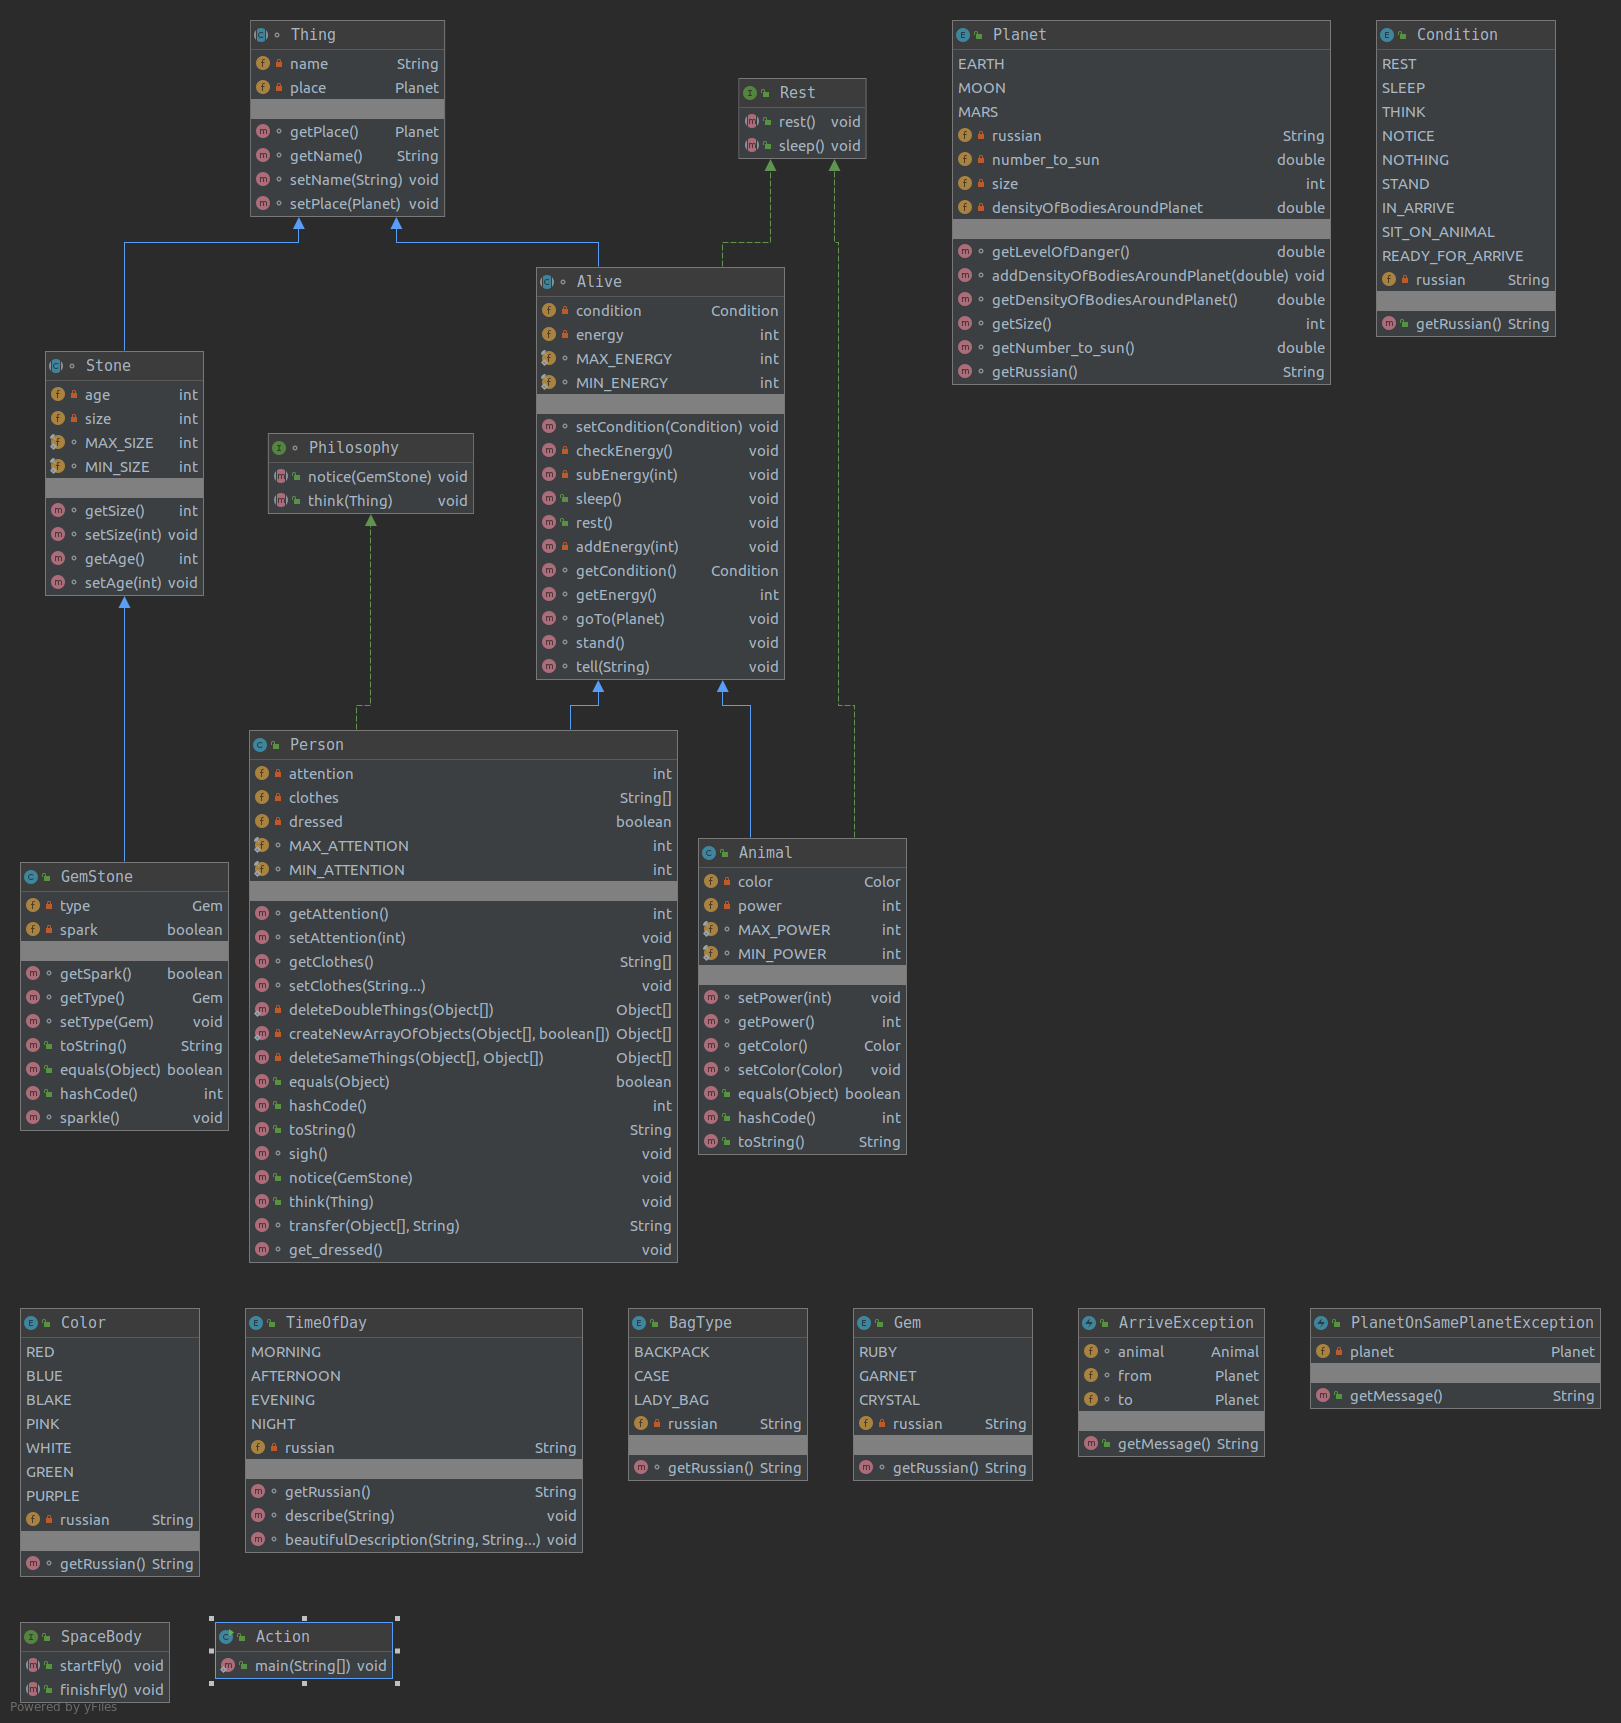
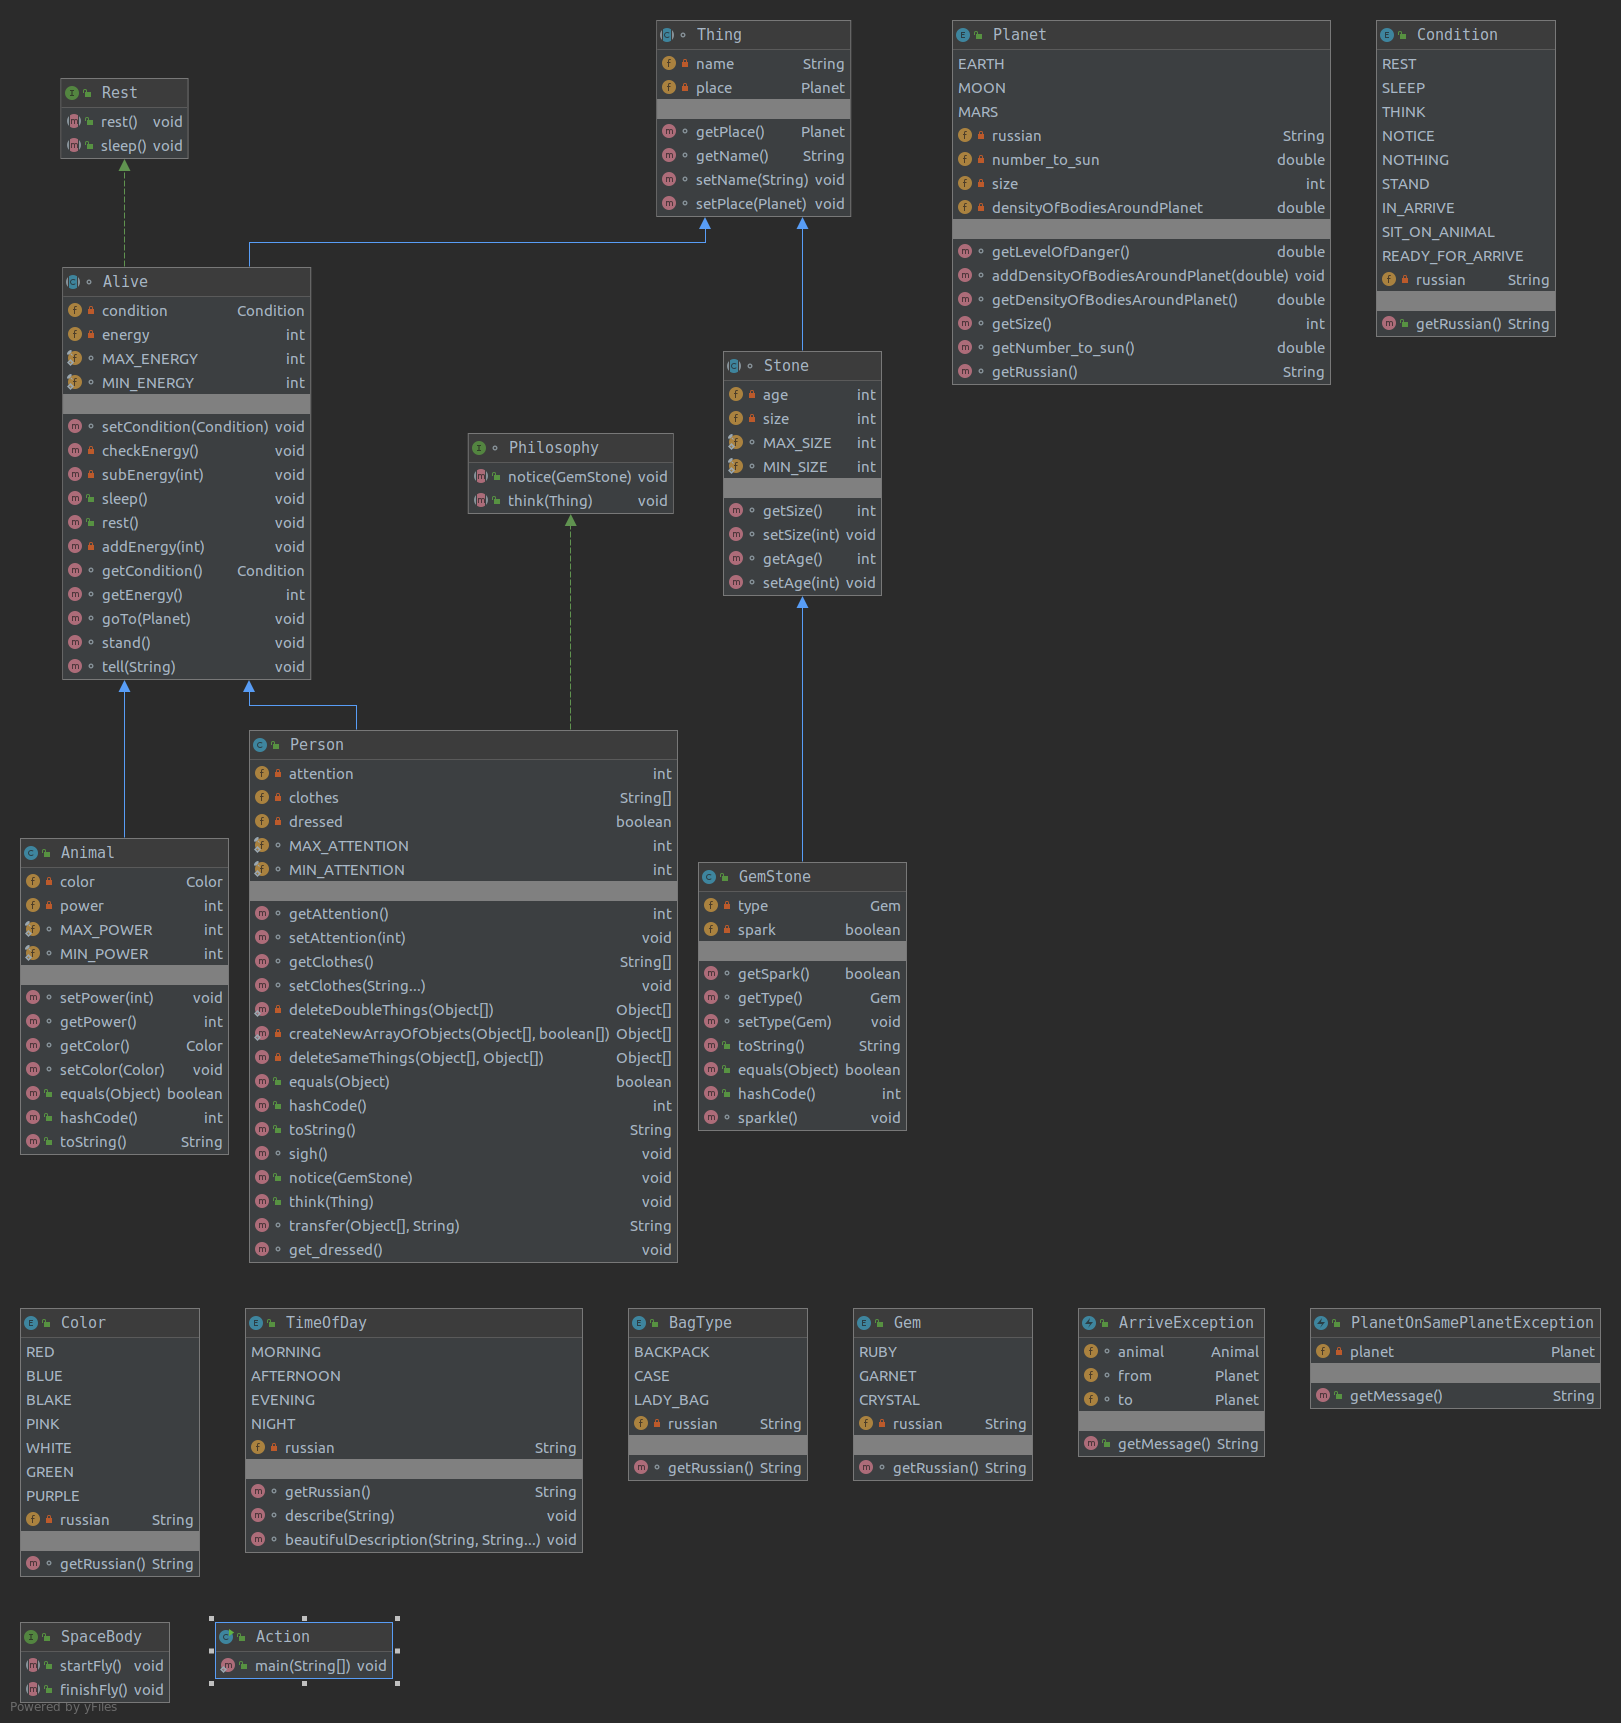
Create normal Diagramme

diff --git a/src/Animal.java b/src/Animal.java
@@ -1,6 +1,6 @@
 import java.util.Objects;
 
-public class Animal extends Alive implements Rest {
+public class Animal extends Alive{
     private Color color;
     private int power;
     static final int MAX_POWER = 3;
